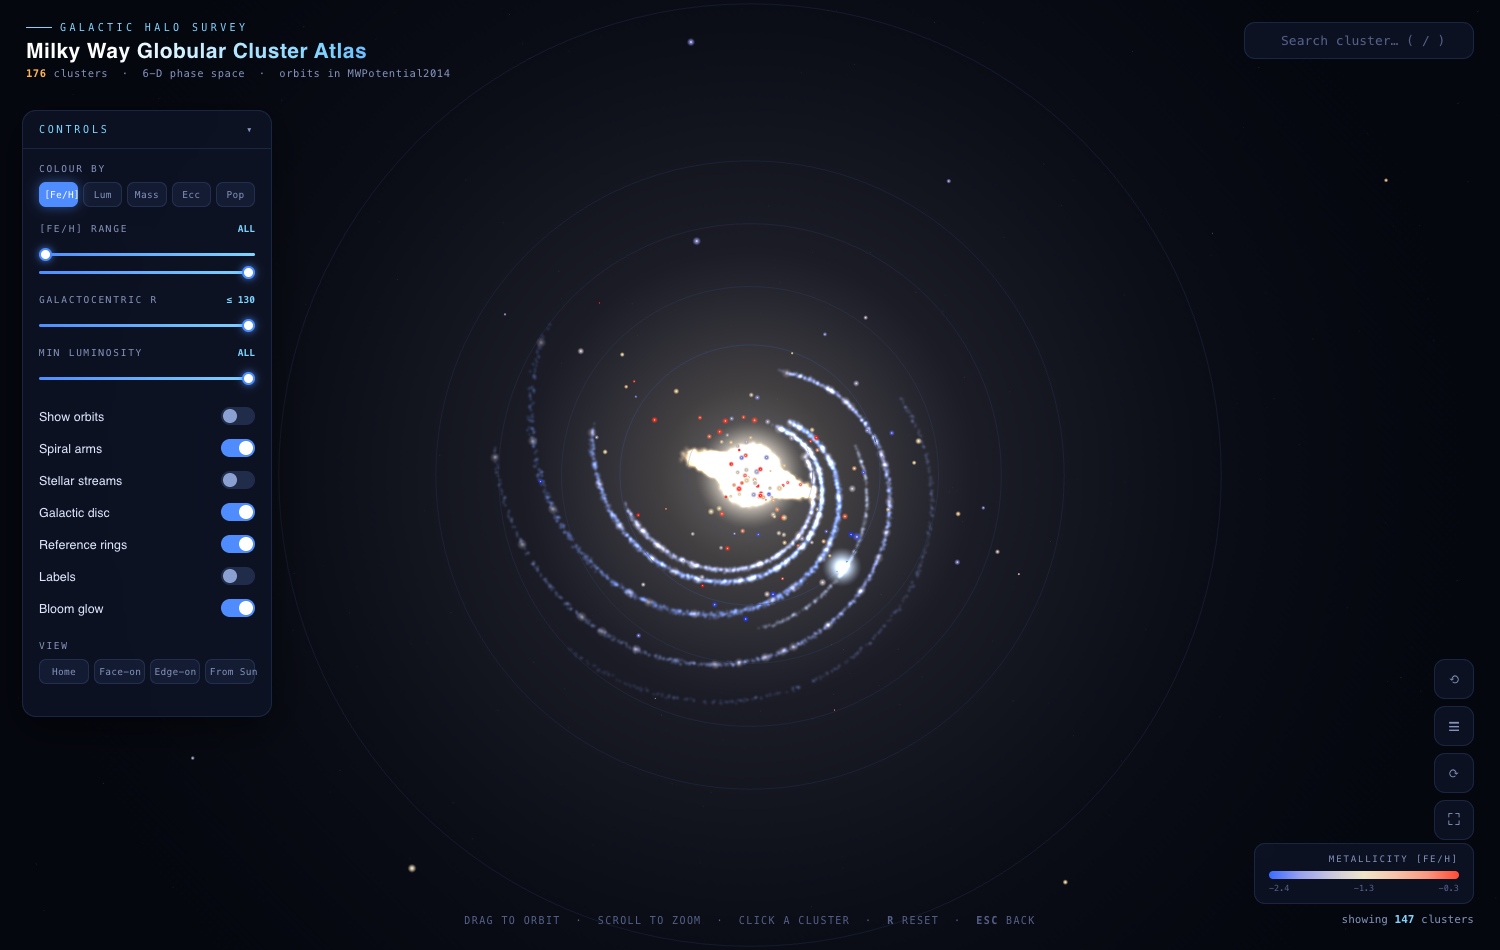
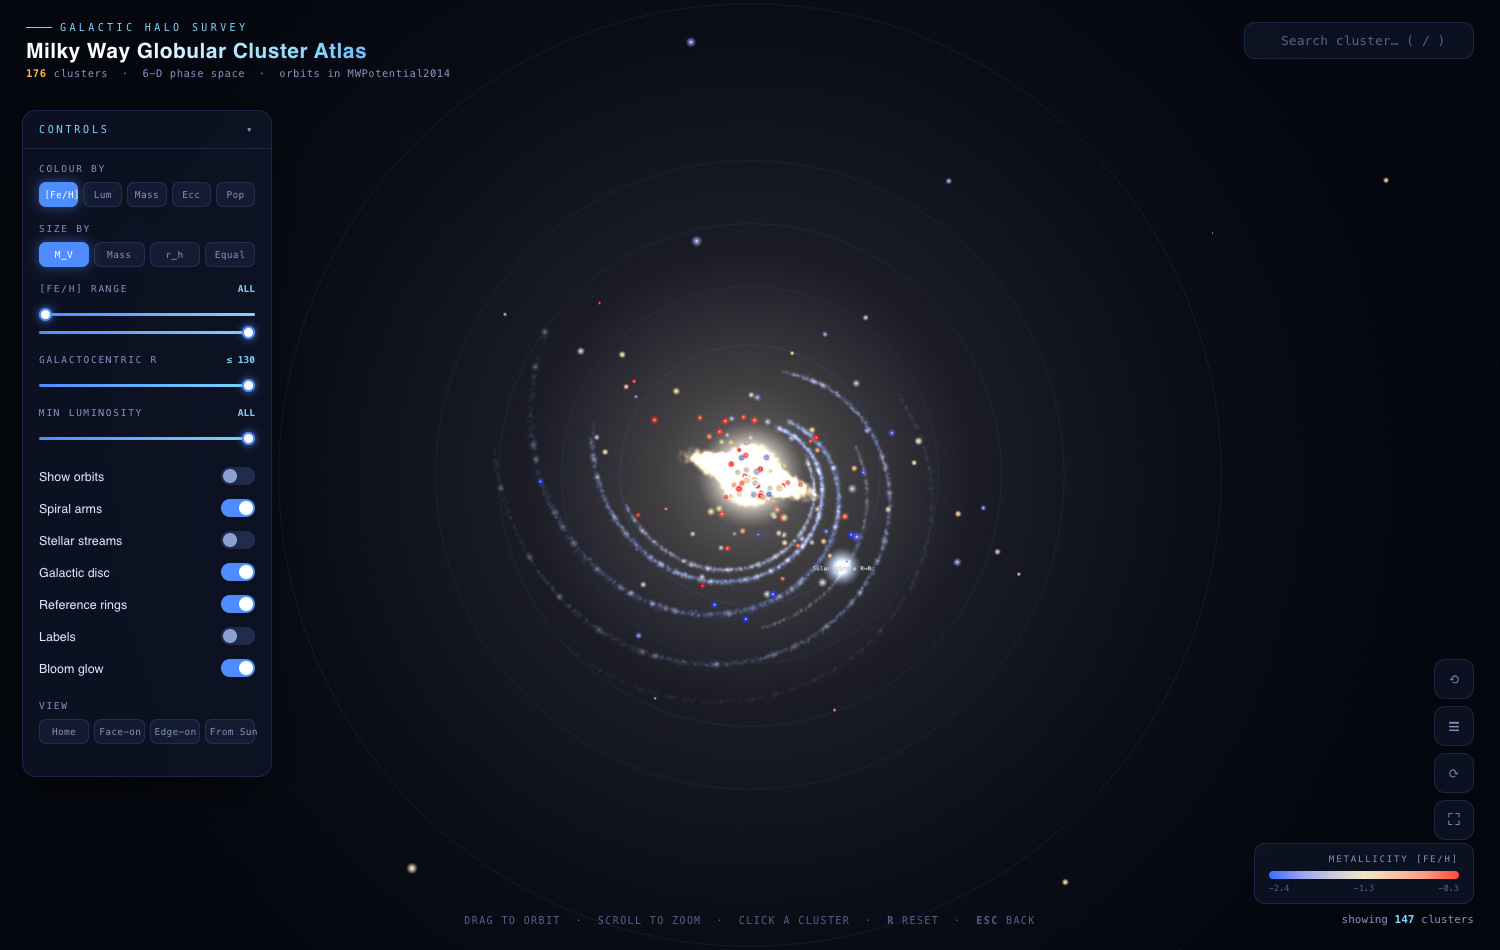
feat(viz): label the solar circle ring (R=R☉=8.275 kpc)
The 8.275 kpc reference ring (Sun's galactocentric orbit) is now tagged
'Solar circle R=R☉' so it is not mistaken for a solar-system orbit (AU
scale is invisible at kpc scale)

Changed region(s): [[0.0, 0.2137, 0.184, 0.7937], [0.3987, 0.3968, 0.6133, 0.7021], [0.5827, 0.4579, 0.6133, 0.4884]]

diff --git a/viz/app.js b/viz/app.js
@@ -279,6 +279,12 @@ const ringGroup = new THREE.Group();
   const mat = new THREE.LineBasicMaterial({ color: 0x3a4a80, transparent: true,
     opacity: i === 1 ? 0.5 : 0.22 });
   ringGroup.add(new THREE.Line(geo, mat));
+  // 太阳圈 (R=R☉=8.275kpc, 太阳绕银心公转轨道圈) 加标签, 避免与太阳系混淆
+  if (i === 1) {
+    const lab = makeLabel('Solar circle R=R☉', V(r, 0, 0));
+    lab.scale.multiplyScalar(0.65);
+    ringGroup.add(lab);
+  }
 });
 scene.add(ringGroup);
 
